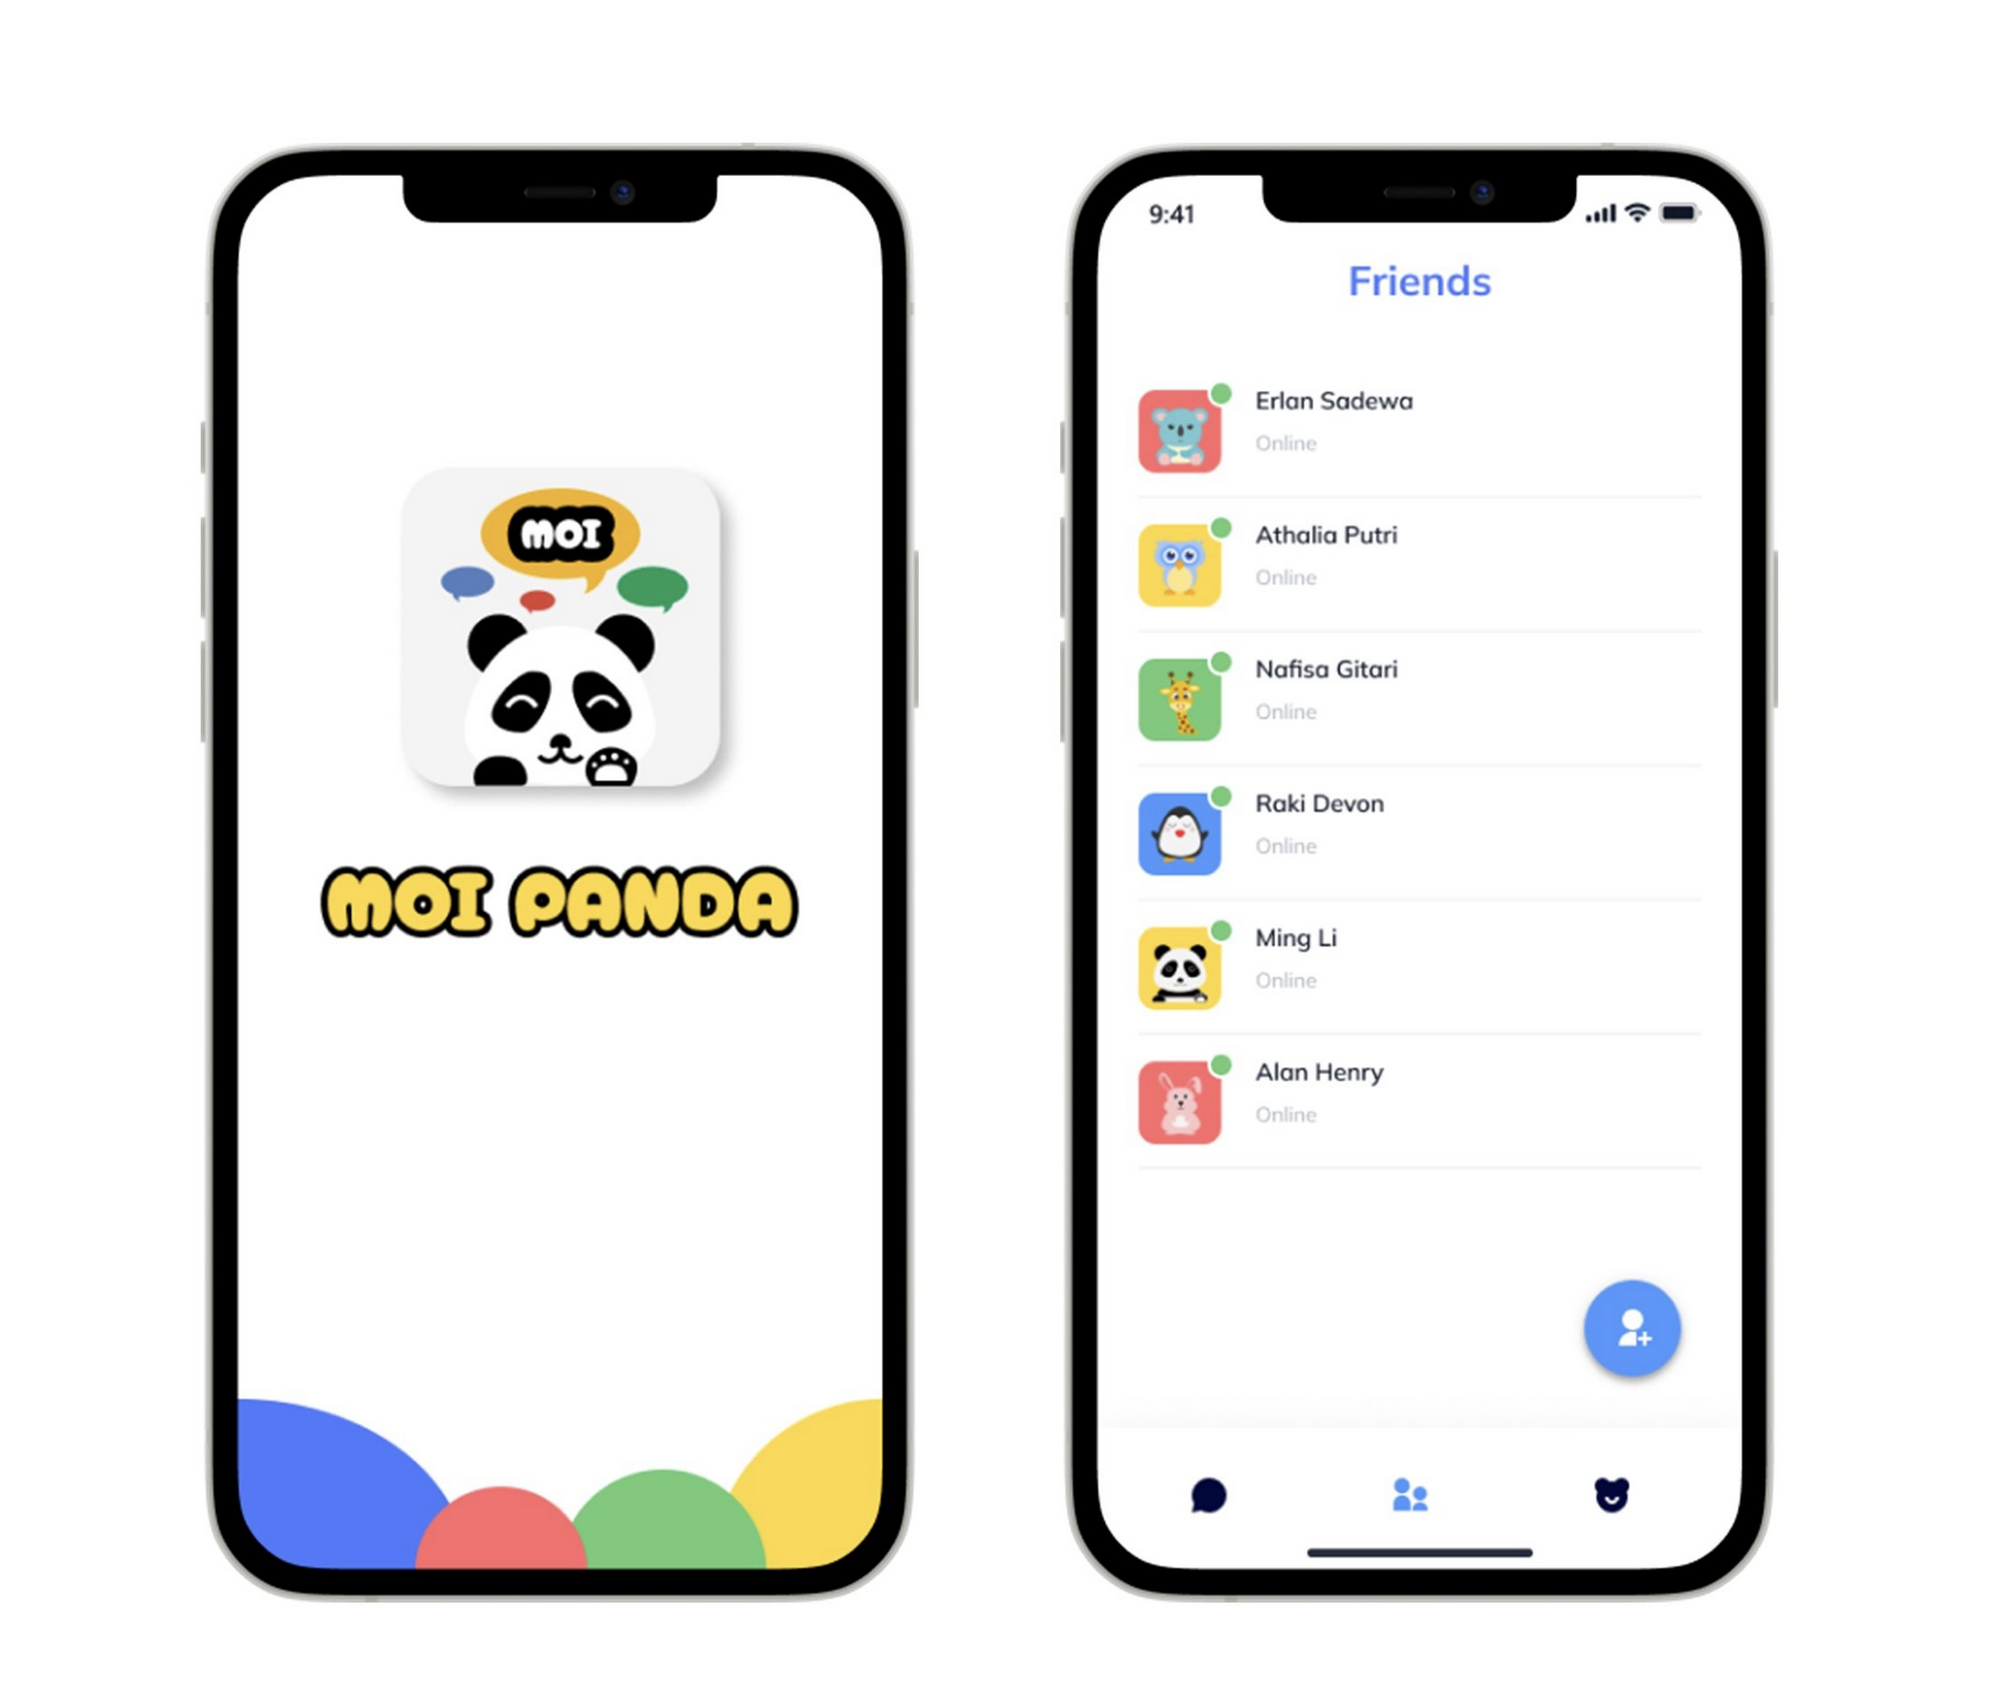
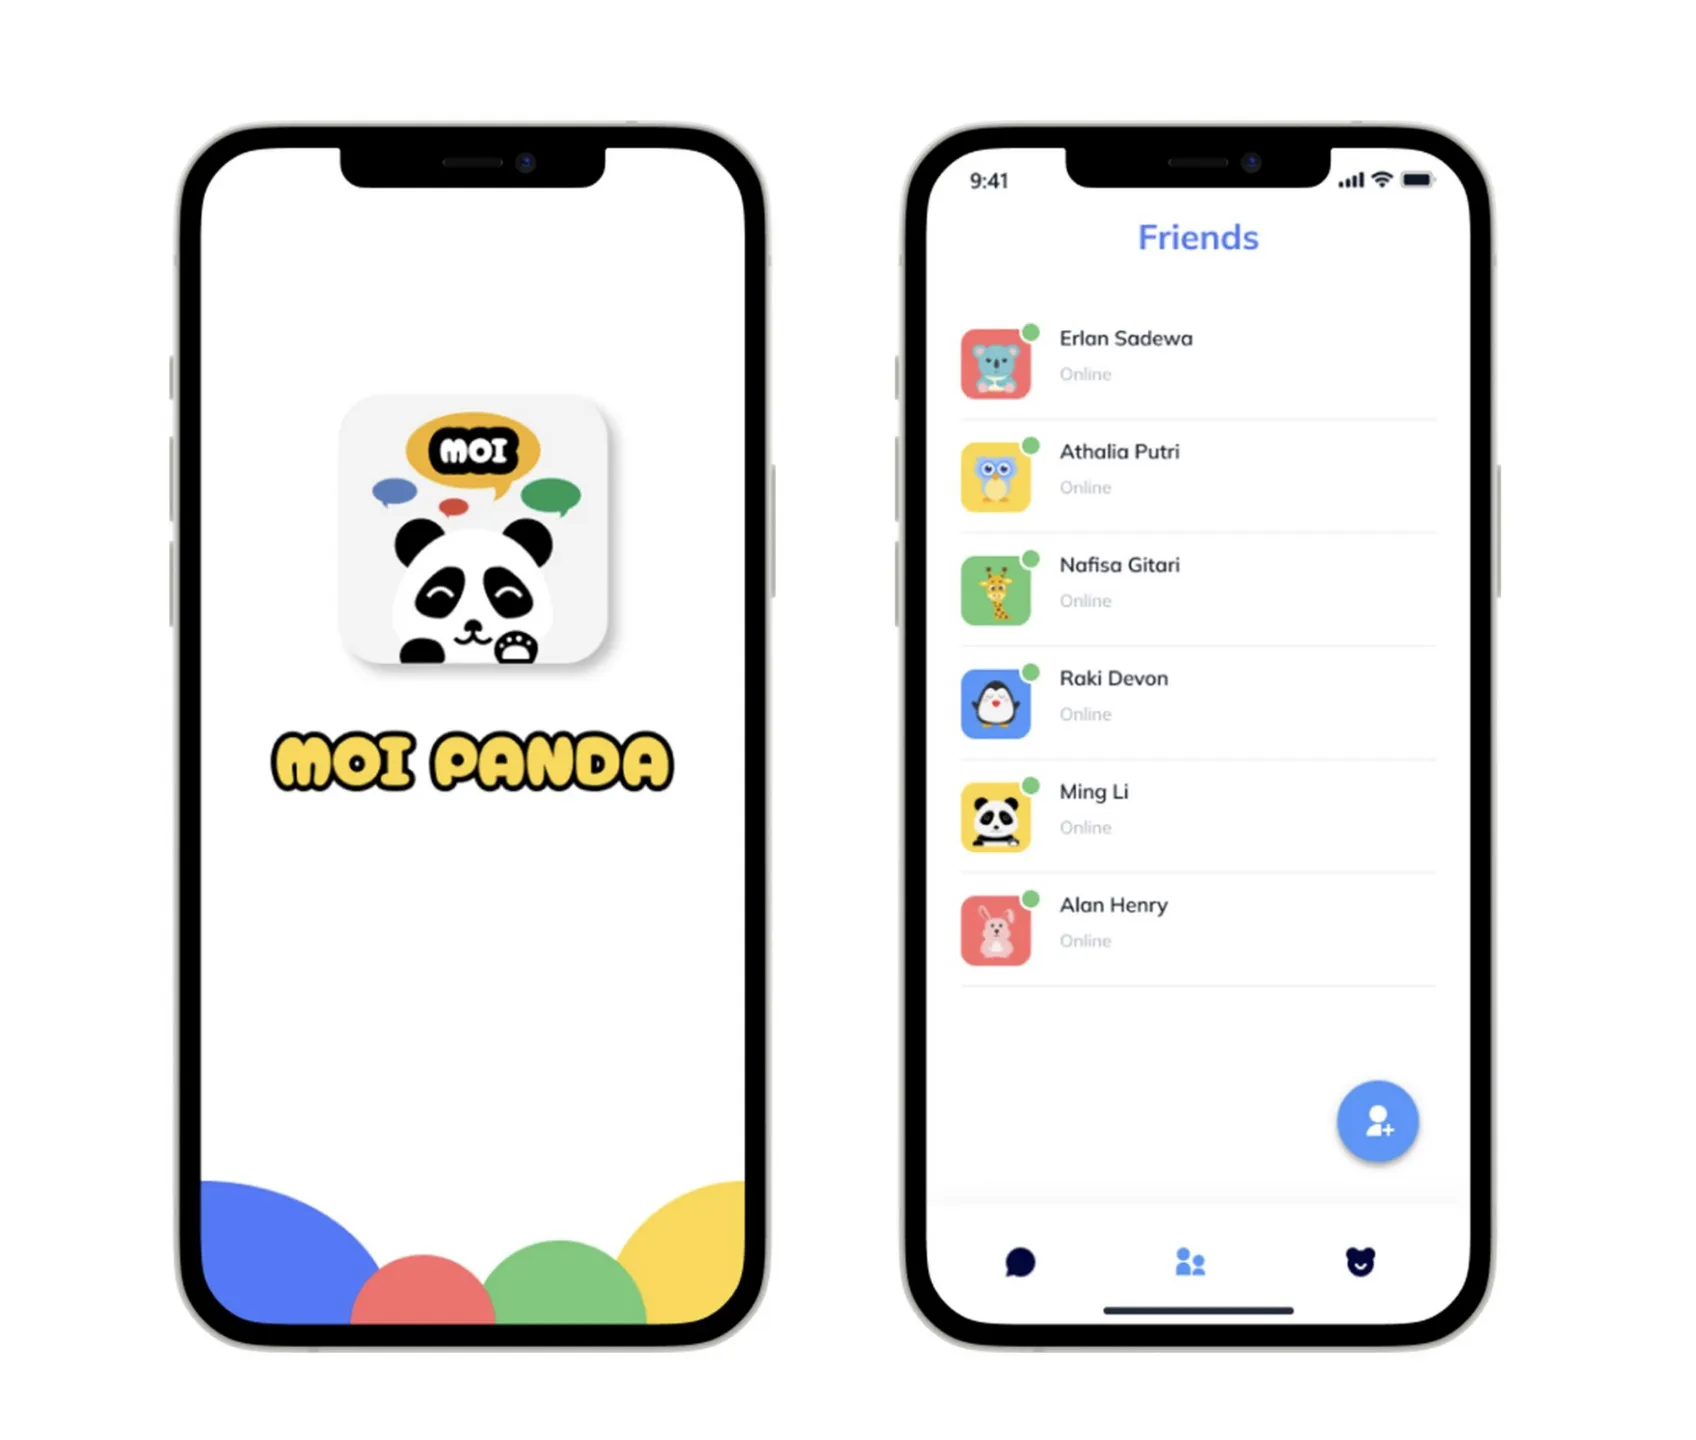
optimized project images

diff --git a/src/langLocal/en.js b/src/langLocal/en.js
@@ -1,18 +1,37 @@
 import { Carousel_Item } from "../pages/Projects/TeamProjects/ProjectCarousel/Carousel_Item";
 
 import Qteatteri from "../pages/Projects/assets/carousel/MEDIA_QTEATTERI.webp";
-import Oodi from "../pages/Projects/assets/carousel/MEDIA_OODI_SMALL.webp";
-import MoiPanda from "../pages/Projects/assets/carousel/MEDIA_MOIPANDA_SMALL.webp";
-import RadioHelsinki from "../pages/Projects/assets/carousel/MEDIA_RADIOHELSINKI_SMALL.webp";
-import Henkilökuvaus from "../pages/Projects/assets/carousel/MEDIA_HENKILÖKUVAUS_SMALL.webp";
+import Qteatteri_small from "../pages/Projects/assets/carousel/MEDIA_QTEATTERI_SMALL.webp";
 
-import Pilvipalvelu from "../pages/Projects/assets/carousel/ICT_PILVIPALVELU_SMALL.webp";
-import Virtualisointi from "../pages/Projects/assets/carousel/ICT_VIRTUALISOINTIPROJEKTI_SMALL.webp";
-import Tietoliikenne from "../pages/Projects/assets/carousel/ICT_TIETOLIIKENNEKAAPPI_SMALL.webp";
+import Oodi from "../pages/Projects/assets/carousel/MEDIA_OODI.webp";
+import Oodi_small from "../pages/Projects/assets/carousel/MEDIA_OODI_SMALL.webp";
 
-import Digirasti from "../pages/Projects/assets/carousel/SOFTA_DIGIRASTI_SMALL.webp";
-import Liikuntakoutsaus from "../pages/Projects/assets/carousel/SOFTA_LIIKUNTAKOUTSAUS_SMALL.webp";
-import SoteApp from "../pages/Projects/assets/carousel/SOFTA_SOTEAPP_SMALL.webp";
+import MoiPanda from "../pages/Projects/assets/carousel/MEDIA_MOIPANDA.webp";
+import MoiPanda_small from "../pages/Projects/assets/carousel/MEDIA_MOIPANDA_SMALL.webp";
+
+import RadioHelsinki from "../pages/Projects/assets/carousel/MEDIA_RADIOHELSINKI.webp";
+import RadioHelsinki_small from "../pages/Projects/assets/carousel/MEDIA_RADIOHELSINKI_SMALL.webp";
+
+import Henkilökuvaus from "../pages/Projects/assets/carousel/MEDIA_HENKILÖKUVAUS.webp";
+import Henkilökuvaus_small from "../pages/Projects/assets/carousel/MEDIA_HENKILÖKUVAUS_SMALL.webp";
+
+import Pilvipalvelu from "../pages/Projects/assets/carousel/ICT_PILVIPALVELU.webp";
+import Pilvipalvelu_small from "../pages/Projects/assets/carousel/ICT_PILVIPALVELU_SMALL.webp";
+
+import Virtualisointi from "../pages/Projects/assets/carousel/ICT_VIRTUALISOINTIPROJEKTI.webp";
+import Virtualisointi_small from "../pages/Projects/assets/carousel/ICT_VIRTUALISOINTIPROJEKTI_SMALL.webp";
+
+import Tietoliikenne from "../pages/Projects/assets/carousel/ICT_TIETOLIIKENNEKAAPPI.webp";
+import Tietoliikenne_small from "../pages/Projects/assets/carousel/ICT_TIETOLIIKENNEKAAPPI_SMALL.webp";
+
+import Digirasti from "../pages/Projects/assets/carousel/SOFTA_DIGIRASTI.webp";
+import Digirasti_small from "../pages/Projects/assets/carousel/SOFTA_DIGIRASTI_SMALL.webp";
+
+import Liikuntakoutsaus from "../pages/Projects/assets/carousel/SOFTA_LIIKUNTAKOUTSAUS.webp";
+import Liikuntakoutsaus_small from "../pages/Projects/assets/carousel/SOFTA_LIIKUNTAKOUTSAUS_SMALL.webp";
+
+import SoteApp from "../pages/Projects/assets/carousel/SOFTA_SOTEAPP.webp";
+import SoteApp_small from "../pages/Projects/assets/carousel/SOFTA_SOTEAPP_SMALL.webp";
 
 export const en = {
   header: {
@@ -241,6 +260,7 @@ export const en = {
             project_title: "Storytheater-video",
             completion_year: "2023",
             img_src: Qteatteri,
+            img_src_small: Qteatteri_small,
             alt: "placeholder image",
             link: "https://virittamohelsinki.fi/",
             description:
@@ -254,6 +274,7 @@ export const en = {
             project_title: "Photoshoot",
             completion_year: "2023",
             img_src: Oodi,
+            img_src_small: Oodi_small,
             alt: "Oodi photography project image",
             link: "https://virittamohelsinki.fi/",
             description:
@@ -267,6 +288,7 @@ export const en = {
             project_title: "Media & Design",
             completion_year: "2023",
             img_src: MoiPanda,
+            img_src_small: MoiPanda_small,
             alt: "placeholder image",
             link: "https://virittamohelsinki.fi/",
             description:
@@ -280,6 +302,7 @@ export const en = {
             project_title: "Sound Design",
             completion_year: "2023",
             img_src: RadioHelsinki,
+            img_src_small: RadioHelsinki_small,
             alt: "placeholder image",
             link: "https://virittamohelsinki.fi/",
             description:
@@ -293,6 +316,7 @@ export const en = {
             project_title: "Henkilökuvaus",
             completion_year: "2023",
             img_src: Henkilökuvaus,
+            img_src_small: Henkilökuvaus_small,
             alt: "placeholder image",
             link: "https://virittamohelsinki.fi/",
             description:
@@ -308,6 +332,7 @@ export const en = {
             project_title: "Azure Cloud Service",
             completion_year: "2023",
             img_src: Pilvipalvelu,
+            img_src_small: Pilvipalvelu_small,
             alt: "Pilvipalvelu project image",
             link: "https://virittamohelsinki.fi/",
             description:
@@ -321,6 +346,7 @@ export const en = {
             project_title: "Virtuliazation Project",
             completion_year: "2023",
             img_src: Virtualisointi,
+            img_src_small: Virtualisointi_small,
             alt: "Virtualisointi project image",
             link: "https://virittamohelsinki.fi/",
             description:
@@ -334,6 +360,7 @@ export const en = {
             project_title: "Telecommunications cabinet organization",
             completion_year: "2023",
             img_src: Tietoliikenne,
+            img_src_small: Tietoliikenne_small,
             alt: "Tietoliikenne project image",
             link: "https://virittamohelsinki.fi/",
             description:
@@ -349,6 +376,7 @@ export const en = {
             project_title: "Digirasti",
             completion_year: "2023",
             img_src: Digirasti,
+            img_src_small: Digirasti_small,
             alt: "Digirasti project image",
             link: "https://virittamohelsinki.fi/",
             description:
@@ -362,6 +390,7 @@ export const en = {
             project_title: "Liikuntakoutsaus",
             completion_year: "2023",
             img_src: Liikuntakoutsaus,
+            img_src_small: Liikuntakoutsaus_small,
             alt: "Liikuntakoutsaus project image",
             link: "https://virittamohelsinki.fi/",
             description:
@@ -375,6 +404,7 @@ export const en = {
             project_title: "Aina mukana (sote-app)",
             completion_year: "2023",
             img_src: SoteApp,
+            img_src_small: SoteApp_small,
             alt: "Sote-App project image",
             link: "https://virittamohelsinki.fi/",
             description:

diff --git a/src/langLocal/fi.js b/src/langLocal/fi.js
@@ -1,18 +1,37 @@
 import { Carousel_Item } from "../pages/Projects/TeamProjects/ProjectCarousel/Carousel_Item";
 
 import Qteatteri from "../pages/Projects/assets/carousel/MEDIA_QTEATTERI.webp";
-import Oodi from "../pages/Projects/assets/carousel/MEDIA_OODI_SMALL.webp";
-import MoiPanda from "../pages/Projects/assets/carousel/MEDIA_MOIPANDA_SMALL.webp";
-import RadioHelsinki from "../pages/Projects/assets/carousel/MEDIA_RADIOHELSINKI_SMALL.webp";
-import Henkilökuvaus from "../pages/Projects/assets/carousel/MEDIA_HENKILÖKUVAUS_SMALL.webp";
+import Qteatteri_small from "../pages/Projects/assets/carousel/MEDIA_QTEATTERI_SMALL.webp";
 
-import Pilvipalvelu from "../pages/Projects/assets/carousel/ICT_PILVIPALVELU_SMALL.webp";
-import Virtualisointi from "../pages/Projects/assets/carousel/ICT_VIRTUALISOINTIPROJEKTI_SMALL.webp";
-import Tietoliikenne from "../pages/Projects/assets/carousel/ICT_TIETOLIIKENNEKAAPPI_SMALL.webp";
+import Oodi from "../pages/Projects/assets/carousel/MEDIA_OODI.webp";
+import Oodi_small from "../pages/Projects/assets/carousel/MEDIA_OODI_SMALL.webp";
 
-import Digirasti from "../pages/Projects/assets/carousel/SOFTA_DIGIRASTI_SMALL.webp";
-import Liikuntakoutsaus from "../pages/Projects/assets/carousel/SOFTA_LIIKUNTAKOUTSAUS_SMALL.webp";
-import SoteApp from "../pages/Projects/assets/carousel/SOFTA_SOTEAPP_SMALL.webp";
+import MoiPanda from "../pages/Projects/assets/carousel/MEDIA_MOIPANDA.webp";
+import MoiPanda_small from "../pages/Projects/assets/carousel/MEDIA_MOIPANDA_SMALL.webp";
+
+import RadioHelsinki from "../pages/Projects/assets/carousel/MEDIA_RADIOHELSINKI.webp";
+import RadioHelsinki_small from "../pages/Projects/assets/carousel/MEDIA_RADIOHELSINKI_SMALL.webp";
+
+import Henkilökuvaus from "../pages/Projects/assets/carousel/MEDIA_HENKILÖKUVAUS.webp";
+import Henkilökuvaus_small from "../pages/Projects/assets/carousel/MEDIA_HENKILÖKUVAUS_SMALL.webp";
+
+import Pilvipalvelu from "../pages/Projects/assets/carousel/ICT_PILVIPALVELU.webp";
+import Pilvipalvelu_small from "../pages/Projects/assets/carousel/ICT_PILVIPALVELU_SMALL.webp";
+
+import Virtualisointi from "../pages/Projects/assets/carousel/ICT_VIRTUALISOINTIPROJEKTI.webp";
+import Virtualisointi_small from "../pages/Projects/assets/carousel/ICT_VIRTUALISOINTIPROJEKTI_SMALL.webp";
+
+import Tietoliikenne from "../pages/Projects/assets/carousel/ICT_TIETOLIIKENNEKAAPPI.webp";
+import Tietoliikenne_small from "../pages/Projects/assets/carousel/ICT_TIETOLIIKENNEKAAPPI_SMALL.webp";
+
+import Digirasti from "../pages/Projects/assets/carousel/SOFTA_DIGIRASTI.webp";
+import Digirasti_small from "../pages/Projects/assets/carousel/SOFTA_DIGIRASTI_SMALL.webp";
+
+import Liikuntakoutsaus from "../pages/Projects/assets/carousel/SOFTA_LIIKUNTAKOUTSAUS.webp";
+import Liikuntakoutsaus_small from "../pages/Projects/assets/carousel/SOFTA_LIIKUNTAKOUTSAUS_SMALL.webp";
+
+import SoteApp from "../pages/Projects/assets/carousel/SOFTA_SOTEAPP.webp";
+import SoteApp_small from "../pages/Projects/assets/carousel/SOFTA_SOTEAPP_SMALL.webp";
 
 export const fi = {
   header: {
@@ -243,6 +262,7 @@ export const fi = {
             project_title: "Tarinateatteri-video",
             completion_year: "2023",
             img_src: Qteatteri,
+            img_src_small: Qteatteri_small,
             alt: "placeholder image",
             link: "https://virittamohelsinki.fi/",
             description:
@@ -256,6 +276,7 @@ export const fi = {
             project_title: "Valokuvaus",
             completion_year: "2023",
             img_src: Oodi,
+            img_src_small: Oodi_small,
             alt: "Oodi photography project image",
             link: "https://virittamohelsinki.fi/",
             description:
@@ -269,6 +290,7 @@ export const fi = {
             project_title: "Media & Design",
             completion_year: "2023",
             img_src: MoiPanda,
+            img_src_small: MoiPanda_small,
             alt: "placeholder image",
             link: "https://virittamohelsinki.fi/",
             description:
@@ -282,6 +304,7 @@ export const fi = {
             project_title: "Sound Design",
             completion_year: "2023",
             img_src: RadioHelsinki,
+            img_src_small: RadioHelsinki_small,
             alt: "placeholder image",
             link: "https://virittamohelsinki.fi/",
             description:
@@ -295,6 +318,7 @@ export const fi = {
             project_title: "Henkilökuvaus",
             completion_year: "2023",
             img_src: Henkilökuvaus,
+            img_src_small: Henkilökuvaus_small,
             alt: "placeholder image",
             link: "https://virittamohelsinki.fi/",
             description:
@@ -310,6 +334,7 @@ export const fi = {
             project_title: "Azure-pilvipalvelu",
             completion_year: "2023",
             img_src: Pilvipalvelu,
+            img_src_small: Pilvipalvelu_small,
             alt: "Pilvipalvelu project image",
             link: "https://virittamohelsinki.fi/",
             description:
@@ -323,6 +348,7 @@ export const fi = {
             project_title: "Virtualisointiprojekti",
             completion_year: "2023",
             img_src: Virtualisointi,
+            img_src_small: Virtualisointi_small,
             alt: "Virtualisointi project image",
             link: "https://virittamohelsinki.fi/",
             description:
@@ -336,6 +362,7 @@ export const fi = {
             project_title: "Tietoliikennekaapin siistiminen",
             completion_year: "2023",
             img_src: Tietoliikenne,
+            img_src_small: Tietoliikenne_small,
             alt: "Tietoliikenne project image",
             link: "https://virittamohelsinki.fi/",
             description:
@@ -351,6 +378,7 @@ export const fi = {
             project_title: "Digirasti",
             completion_year: "2023",
             img_src: Digirasti,
+            img_src_small: Digirasti_small,
             alt: "Digirasti project image",
             link: "https://virittamohelsinki.fi/",
             description:
@@ -364,6 +392,7 @@ export const fi = {
             project_title: "Liikuntakoutsaus",
             completion_year: "2023",
             img_src: Liikuntakoutsaus,
+            img_src_small: Liikuntakoutsaus_small,
             alt: "Liikuntakoutsaus project image",
             link: "https://virittamohelsinki.fi/",
             description:
@@ -377,6 +406,7 @@ export const fi = {
             project_title: "Aina mukana (SOTE-app)",
             completion_year: "2023",
             img_src: SoteApp,
+            img_src_small: SoteApp_small,
             alt: "Sote-App project image",
             link: "https://virittamohelsinki.fi/",
             description:

diff --git a/src/pages/Projects/TeamProjects/ProjectCarousel/Carousel_Item.jsx b/src/pages/Projects/TeamProjects/ProjectCarousel/Carousel_Item.jsx
@@ -4,7 +4,7 @@ import PropTypes from "prop-types";
 export const Carousel_Item = ({
   _id,
   team,
-  img_src,
+  img_src_small,
   client_name,
   project_title,
   completion_year,
@@ -13,7 +13,7 @@ export const Carousel_Item = ({
     <div className="projectPage__teams--carousel-item">
       <div className="carousel-img-container">
         <Link to={`/projects/${team}/${_id}`}>
-          <img src={img_src} alt="temp image" />
+          <img src={img_src_small} alt="temp image" />
         </Link>
       </div>
       <div className="carousel-title-container">
@@ -28,7 +28,7 @@ export const Carousel_Item = ({
 Carousel_Item.propTypes = {
   _id: PropTypes.number,
   team: PropTypes.string,
-  img_src: PropTypes.string.isRequired,
+  img_src_small: PropTypes.string.isRequired,
   client_name: PropTypes.string.isRequired,
   project_title: PropTypes.string.isRequired,
   completion_year: PropTypes.string.isRequired,

diff --git a/src/pages/Projects/ProjectDetails/ProjectDetails.jsx b/src/pages/Projects/ProjectDetails/ProjectDetails.jsx
@@ -12,8 +12,8 @@ import Loading from "../../Loading/Loading";
 const ProjectDetails = () => {
   const { id, team } = useParams();
   const { lang } = useContext(LanguageContext);
-  const projects_page = lang.projects_page;
 
+  const projects_page = lang.projects_page;
   const project = projects_page.carousels.slides[team].find(
     (item) => item._id == id
   );
